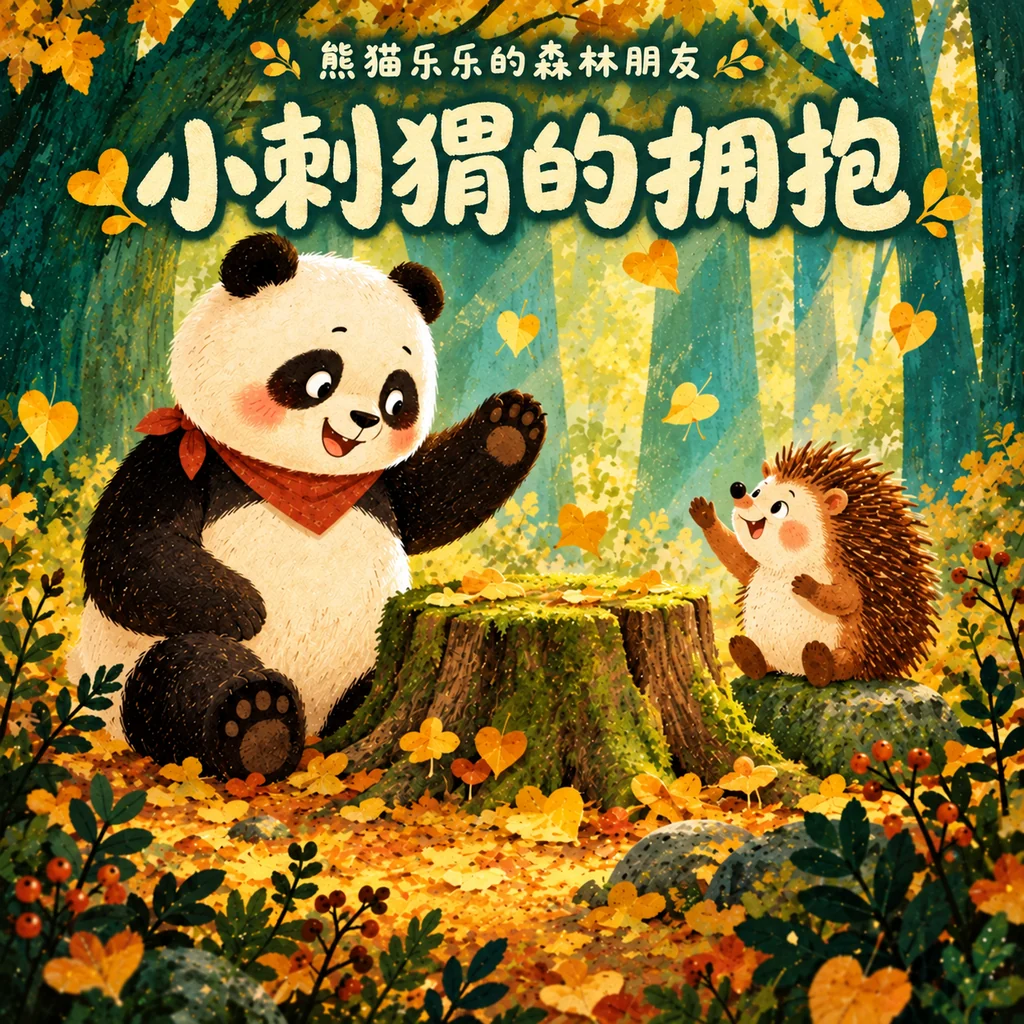
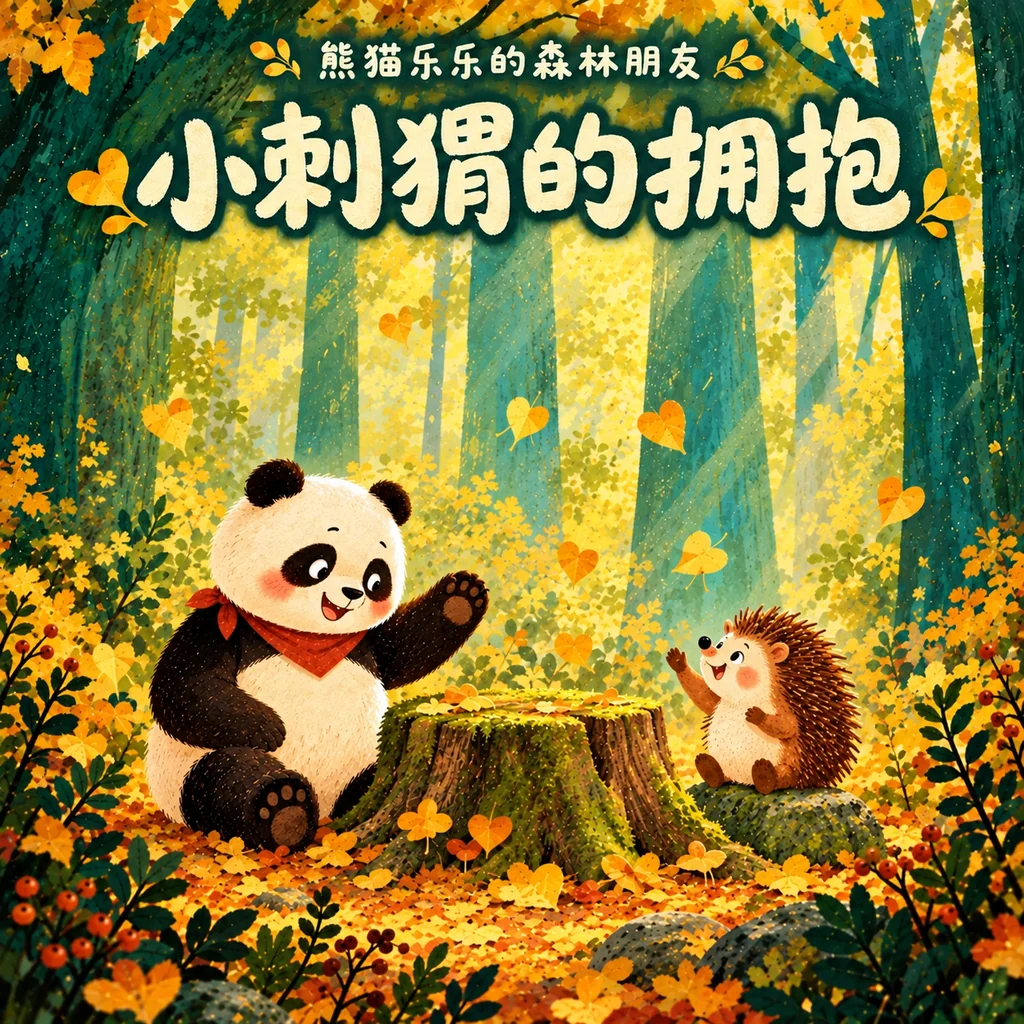
style(storybook): lower cover artwork below titles

diff --git a/apps/web/src/lib/picture-book-demos.ts b/apps/web/src/lib/picture-book-demos.ts
@@ -60,7 +60,8 @@ const stories: DemoStory[] = [
 
 export const pictureBookDemos = stories.map(({ story, ...book }) => ({
   ...book, id: `demo-${book.slug}`, series: "熊猫乐乐的森林朋友", audience: "4–7岁", style: "森林肌理插画", aspectRatio: "1:1", pageCount: 12,
-  coverUrl: `/picture-book-demos/${book.slug}/cover.webp?v=title-v1`,
+  coverPrompt: `${book.coverPrompt}保持统一的书名字体、字号、配色和顶部位置。角色与核心道具整体下移并等比例缩小约15%，最高耳尖从画面高度34%–36%处开始，书名下沿与角色之间留出至少画面高度9%的空间，保留完整身体与连续森林背景。`,
+  coverUrl: `/picture-book-demos/${book.slug}/cover.webp?v=composition-v2`,
   pages: story.map(([caption, imagePrompt], index) => ({
     position: index + 1, caption, narration: caption, imagePrompt,
     imageUrl: `/picture-book-demos/${book.slug}/${String(index + 1).padStart(2, "0")}.webp`, audioUrl: null

diff --git a/docs/picture-book-demo-assets.md b/docs/picture-book-demo-assets.md
@@ -38,4 +38,6 @@ Preserve the reference characters' appearances, proportions and clothing; draw a
 
 使用内置 imagegen 编辑原封面，保留角色、服饰、表情、森林和肌理。封面顶部的小字统一为“熊猫乐乐的森林朋友”，其下以大号、圆润手绘字体分别写“等等我，小兔”“小刺猬的拥抱”“松鼠的橡果约定”。书名为暖米白色，配深青色细描边或轻阴影；文字位于树冠区，不遮挡角色头部。左右留出 6% 安全边距，顶部留出 4% 安全边距。不添加作者名、出版社、其他标语或水印。
 
-前台封面路径附加 `?v=title-v1` 刷新图片缓存。阅读顺序为“封面、1–12页正文”，导航和计数分别展示，正文页数仍为 12。
+标题区沿用统一的字体、字号、配色和位置。角色与核心道具整体下移，等比例缩小约 15%；最高耳尖从画面高度 34%–36% 处开始，与书名下沿保持至少画面高度 9% 的间距。上方保留疏朗的树冠和青绿色树干，正文主画面位于下方三分之二区域；保留角色完整身体和连续森林背景，不使用横向分隔或纯色标题条。
+
+前台封面路径附加 `?v=composition-v2` 刷新图片缓存。阅读顺序为“封面、1–12页正文”，导航和计数分别展示，正文页数仍为 12。
